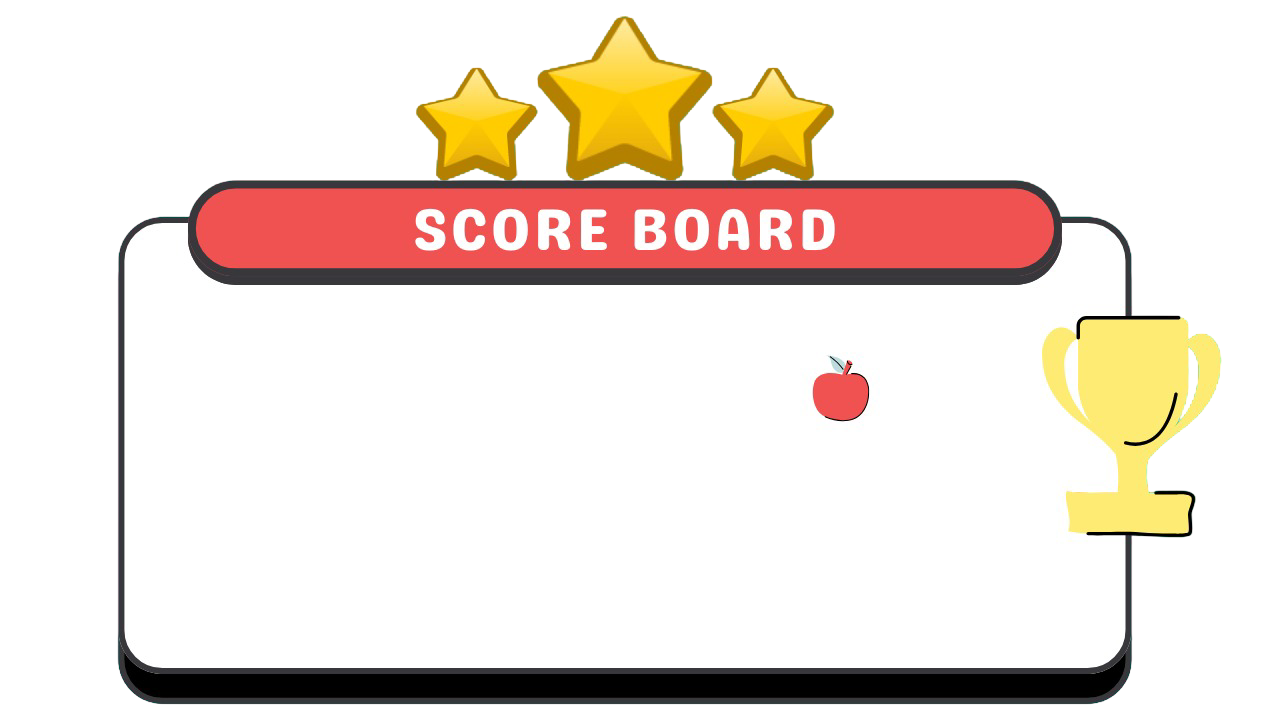
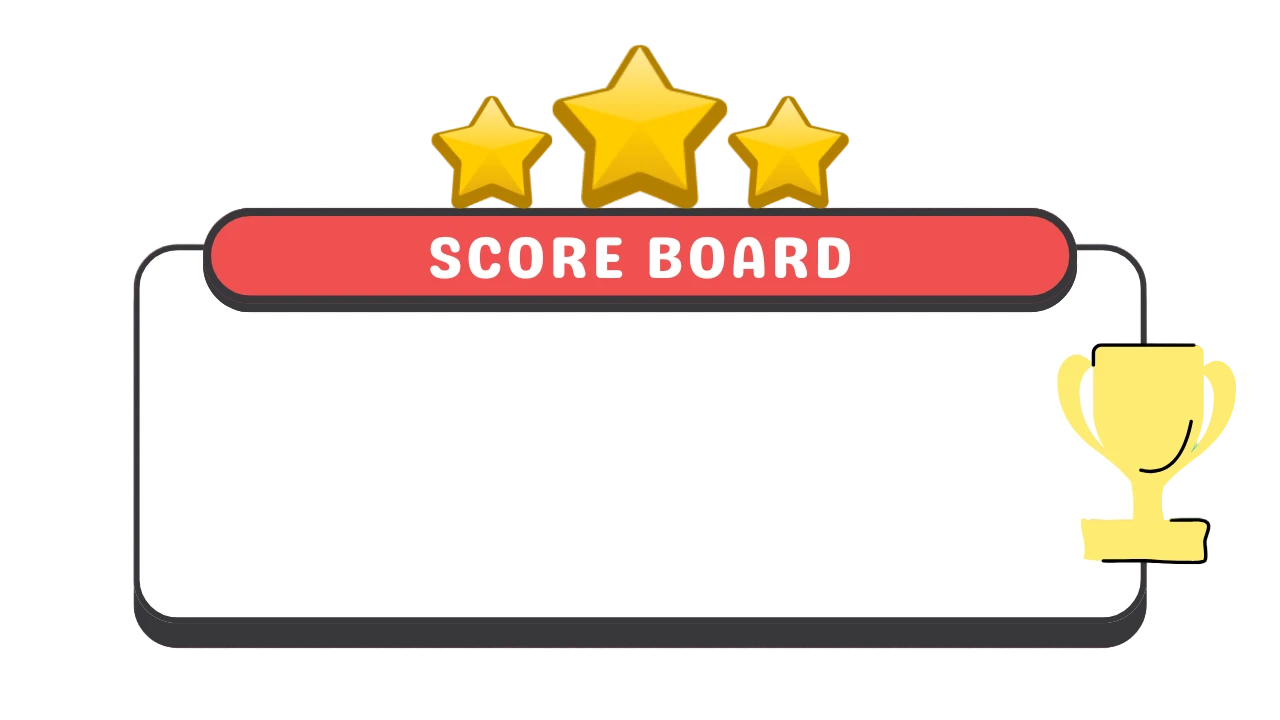
chỉnh lại ảnh bảng score

Changed region(s): [[0.0938, 0.0, 0.9688, 0.9778], [0.625, 0.4889, 0.6875, 0.5806]]

diff --git a/snake_game/snake/scenes/intro.py b/snake_game/snake/scenes/intro.py
@@ -35,10 +35,10 @@ pos_color = (1180, 600)
 pos_submit = (640, 440)
 pos_inputBox = (390, 325)
 pos_wrn = (375, 370)
-pos_return = (450, 590)
-pos_exit1 = (810, 590)
+pos_return = (470, 550)
+pos_exit1 = (830, 550)
 color_text = (64, 224, 208)
-
+pos_idk=((850,390))
 class Sound:
     def __init__(self, name):
         try:
@@ -397,15 +397,17 @@ class Button_Score:
     def __init__(self):
         self.btn_return = Button(pos_return, "btn_return", width_btn, height_btn)
         self.btn_exit = Button(pos_exit1, "btn_exit", width_btn, height_btn)
+        self.btn_idk  = Button(pos_idk,"btn_idk",55,60)
+
 
     def is_hover(self):
         self.btn_return.is_hover()
         self.btn_exit.is_hover()
-
+        self.btn_idk.is_hover()
     def draw(self, screen):
         self.btn_return.draw(screen)
         self.btn_exit.draw(screen)
-
+        self.btn_idk.draw(screen)
     def is_clicked(self, event):
         if self.btn_return.is_clicked(event): return "return"
         if self.btn_exit.is_clicked(event): return "exit1"
@@ -413,7 +415,7 @@ class Button_Score:
     def sound_hover(self):
         self.btn_return.sound_hover()
         self.btn_exit.sound_hover()
-
+        
 class Input_Box:
     def __init__(self, x, y, w, h, font_size=30):
         self.rect = pygame.Rect(x, y, w, h)
